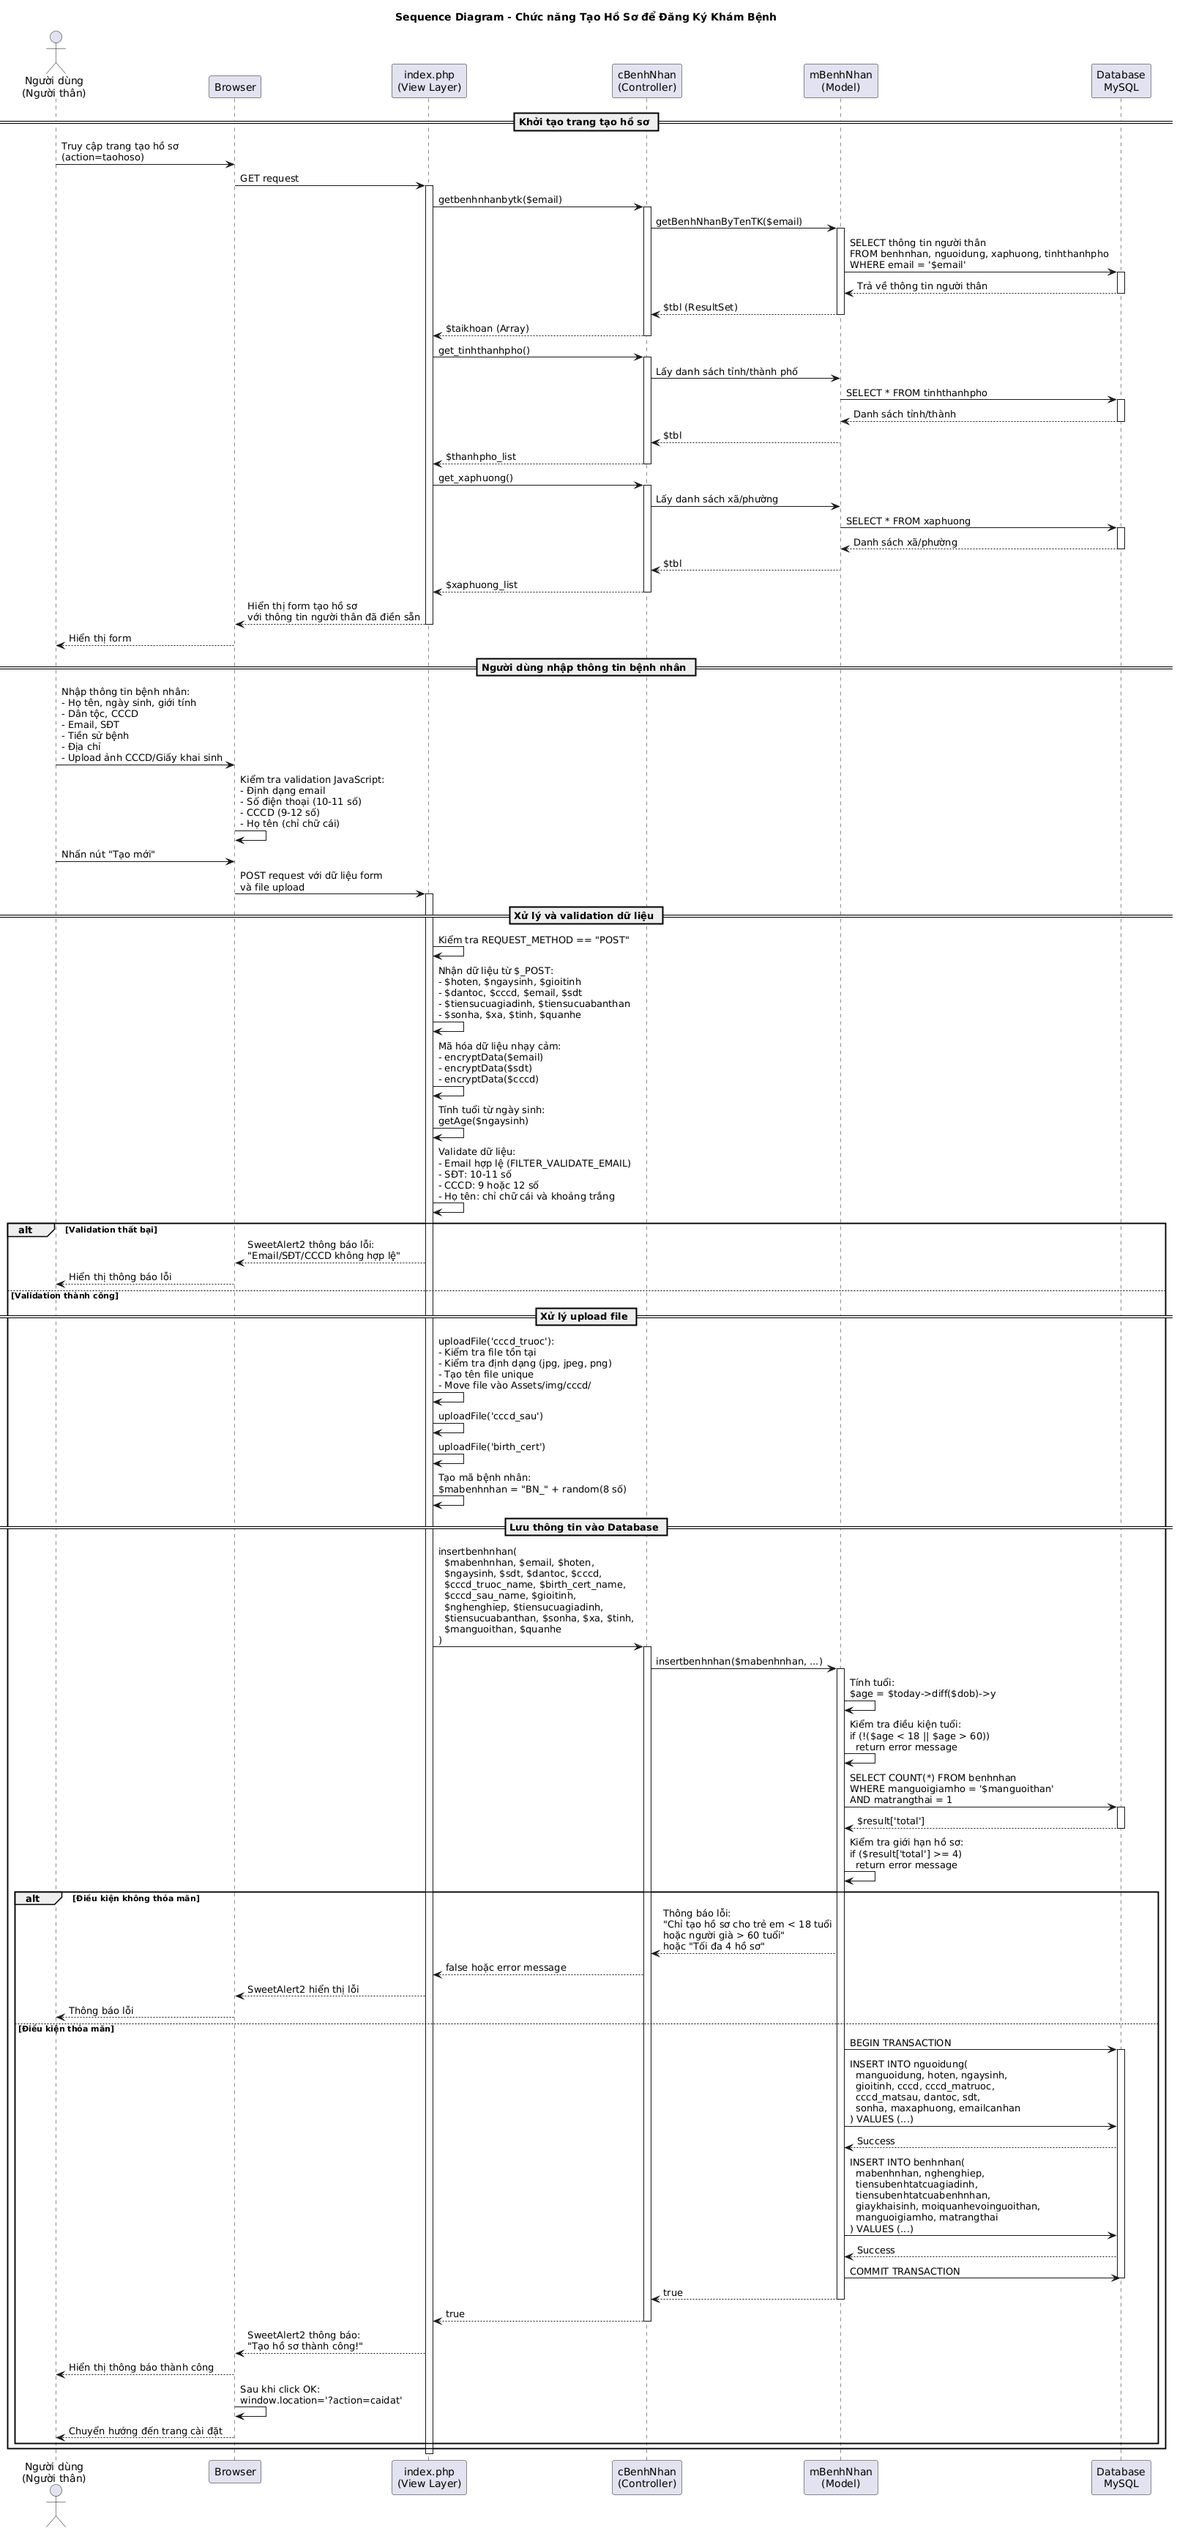
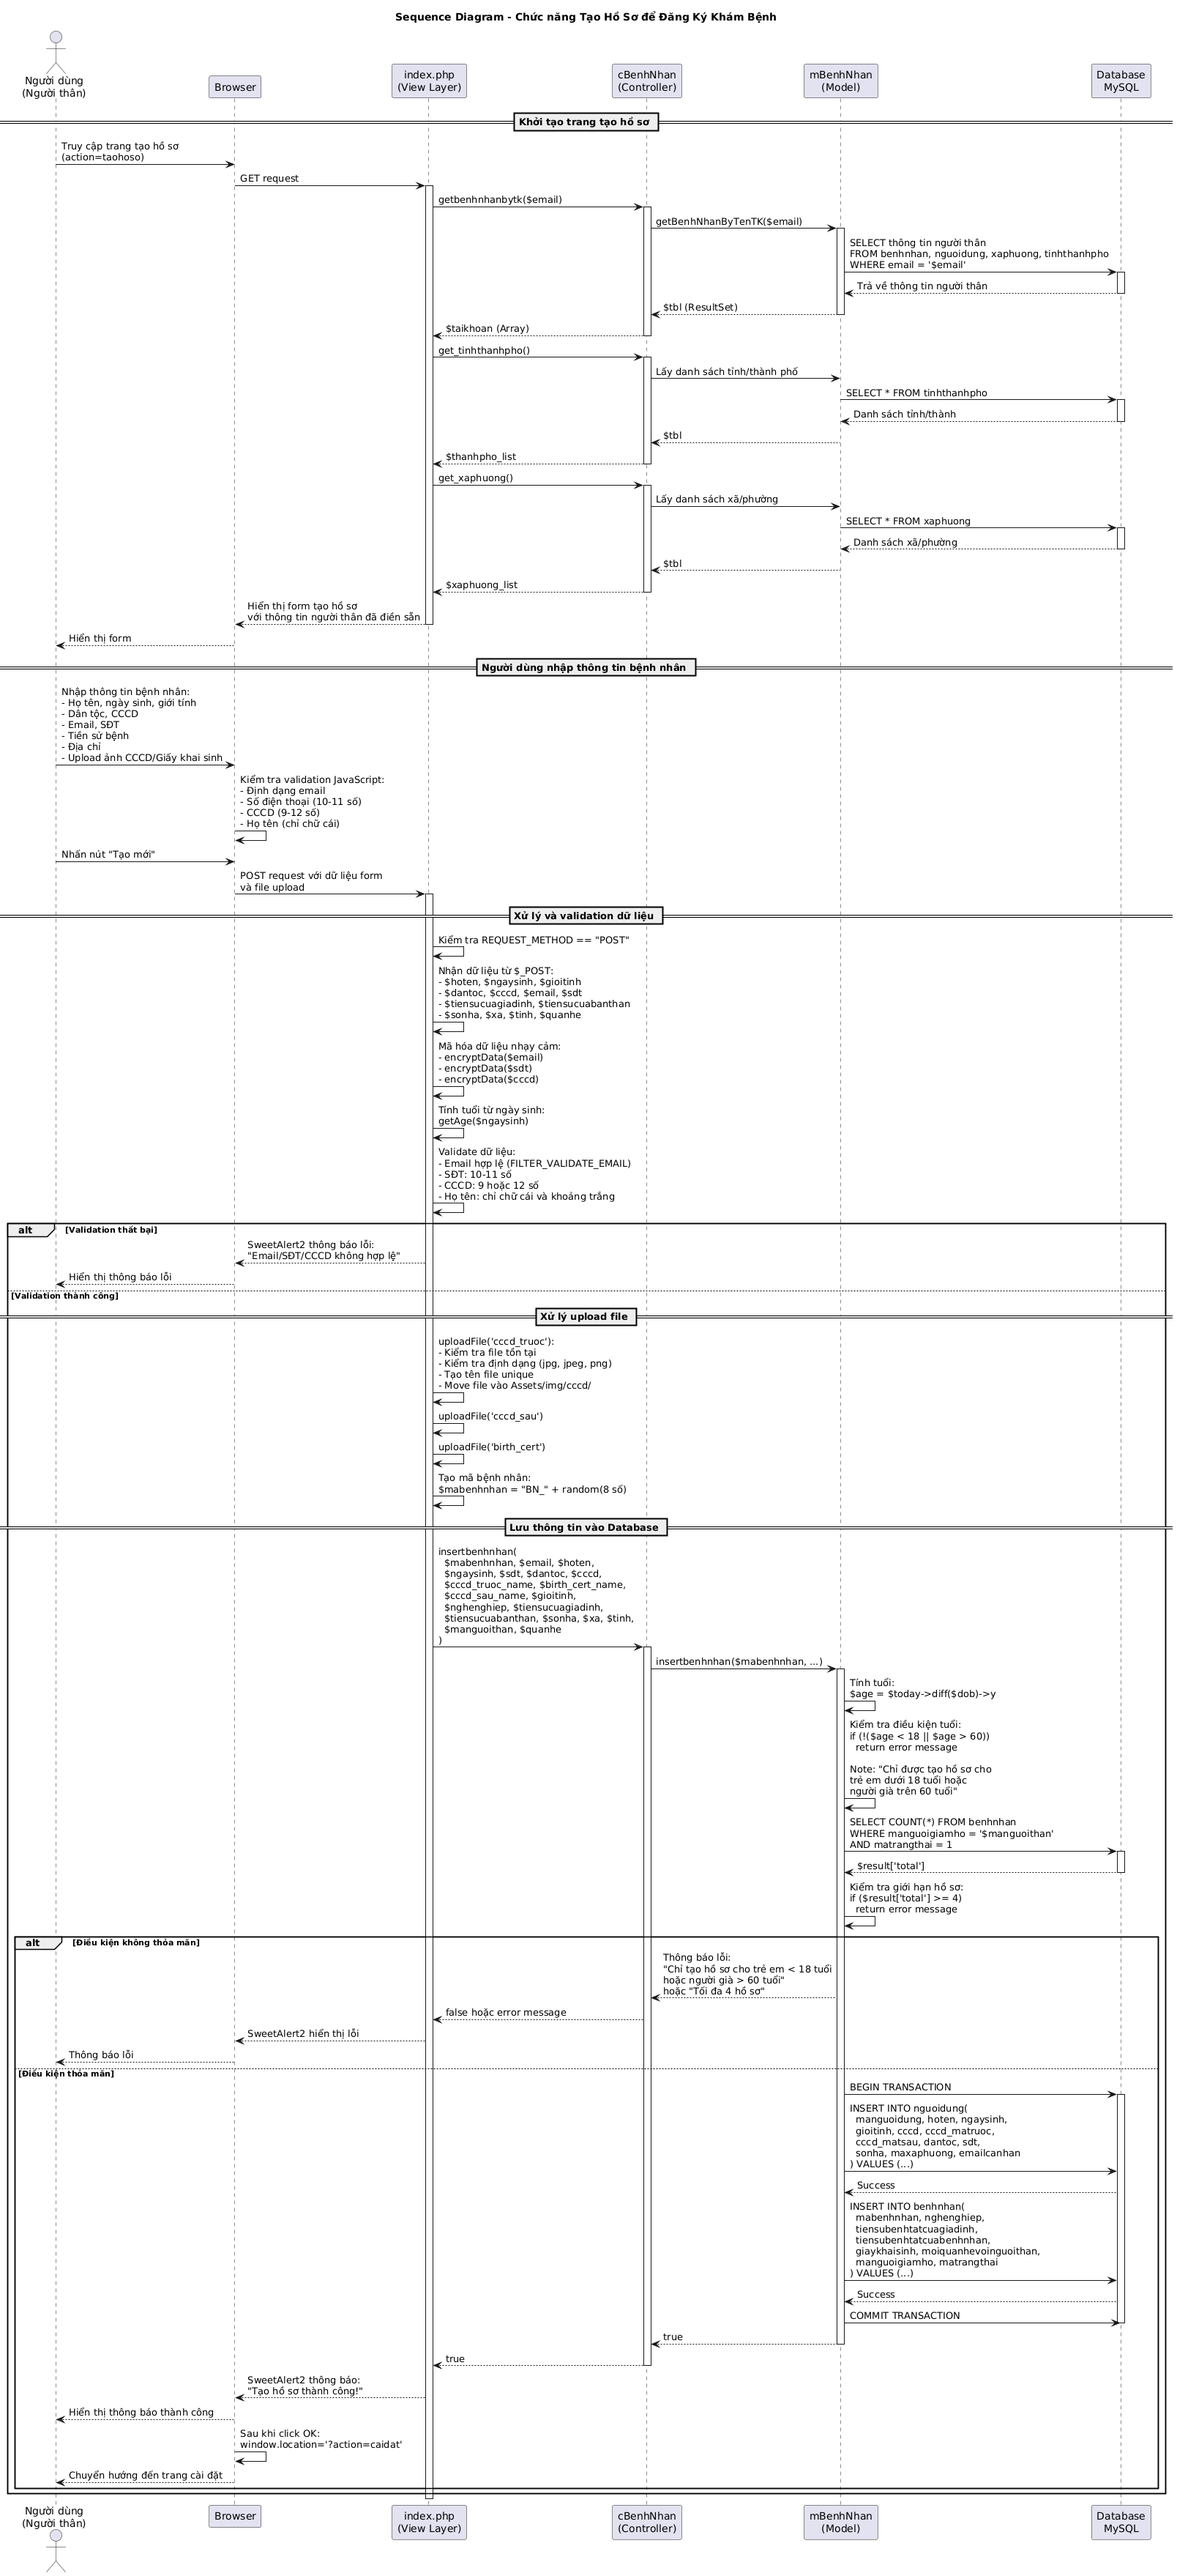
Fix age validation logic documentation and clarify business rules

diff --git a/docs/diagrams/README.md b/docs/diagrams/README.md
@@ -94,8 +94,10 @@ Người dùng nhập các thông tin:
 
 ### Bước 6: Kiểm tra điều kiện nghiệp vụ
 1. **Kiểm tra tuổi**:
-   - Chỉ được tạo hồ sơ cho trẻ em < 18 tuổi HOẶC người già > 60 tuổi
-   - Nếu không thỏa: Trả về lỗi
+   - Quy tắc nghiệp vụ: Chỉ được tạo hồ sơ cho trẻ em < 18 tuổi HOẶC người già > 60 tuổi
+   - Code hiện tại: `if (!($age < 18 || $age > 60))` - logic này sẽ trả về lỗi nếu age < 18 hoặc age > 60
+   - **Lưu ý**: Có thể có inconsistency trong logic validation. Diagram phản ánh code hiện tại.
+   - Nếu không thỏa: Trả về lỗi "Chỉ được tạo hồ sơ cho trẻ em dưới 18 tuổi hoặc người già trên 60 tuổi."
 
 2. **Kiểm tra số lượng hồ sơ**:
    - Một người giám hộ chỉ được tạo tối đa 4 hồ sơ
@@ -148,13 +150,13 @@ Hàm mã hóa được định nghĩa trong `Assets/config.php`
 ## Các trường hợp đặc biệt
 
 ### 1. Người dùng < 16 tuổi
-- Email và số điện thoại không bắt buộc
-- Không cần upload CCCD
-- Bắt buộc upload giấy khai sinh
+- Không yêu cầu email (có thể để trống)
+- Có thể không cần upload CCCD
+- Khuyến khích upload giấy khai sinh
 
 ### 2. Người dùng >= 16 tuổi
-- Email bắt buộc và phải hợp lệ
-- Bắt buộc upload CCCD mặt trước và mặt sau
+- Email bắt buộc và phải hợp lệ (validation: `$age >= 16 && !empty($rawEmail)`)
+- Yêu cầu upload CCCD mặt trước và mặt sau
 
 ### 3. Quan hệ với người thân
 Các lựa chọn:
